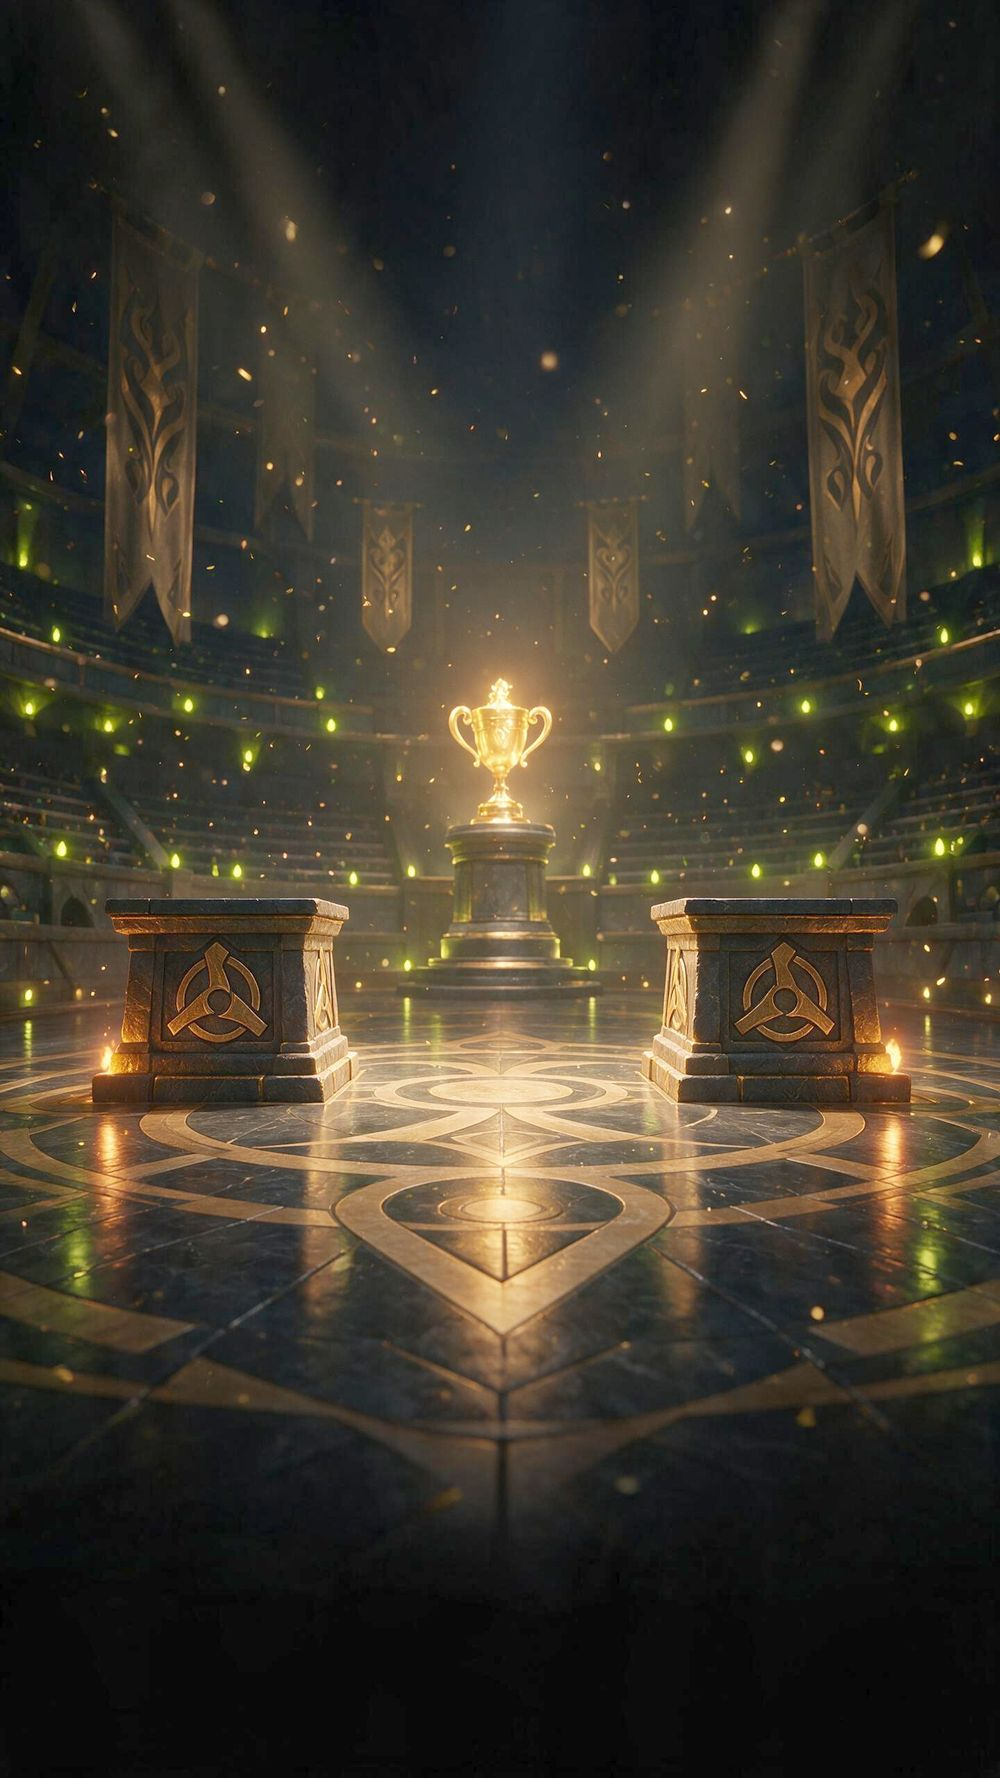
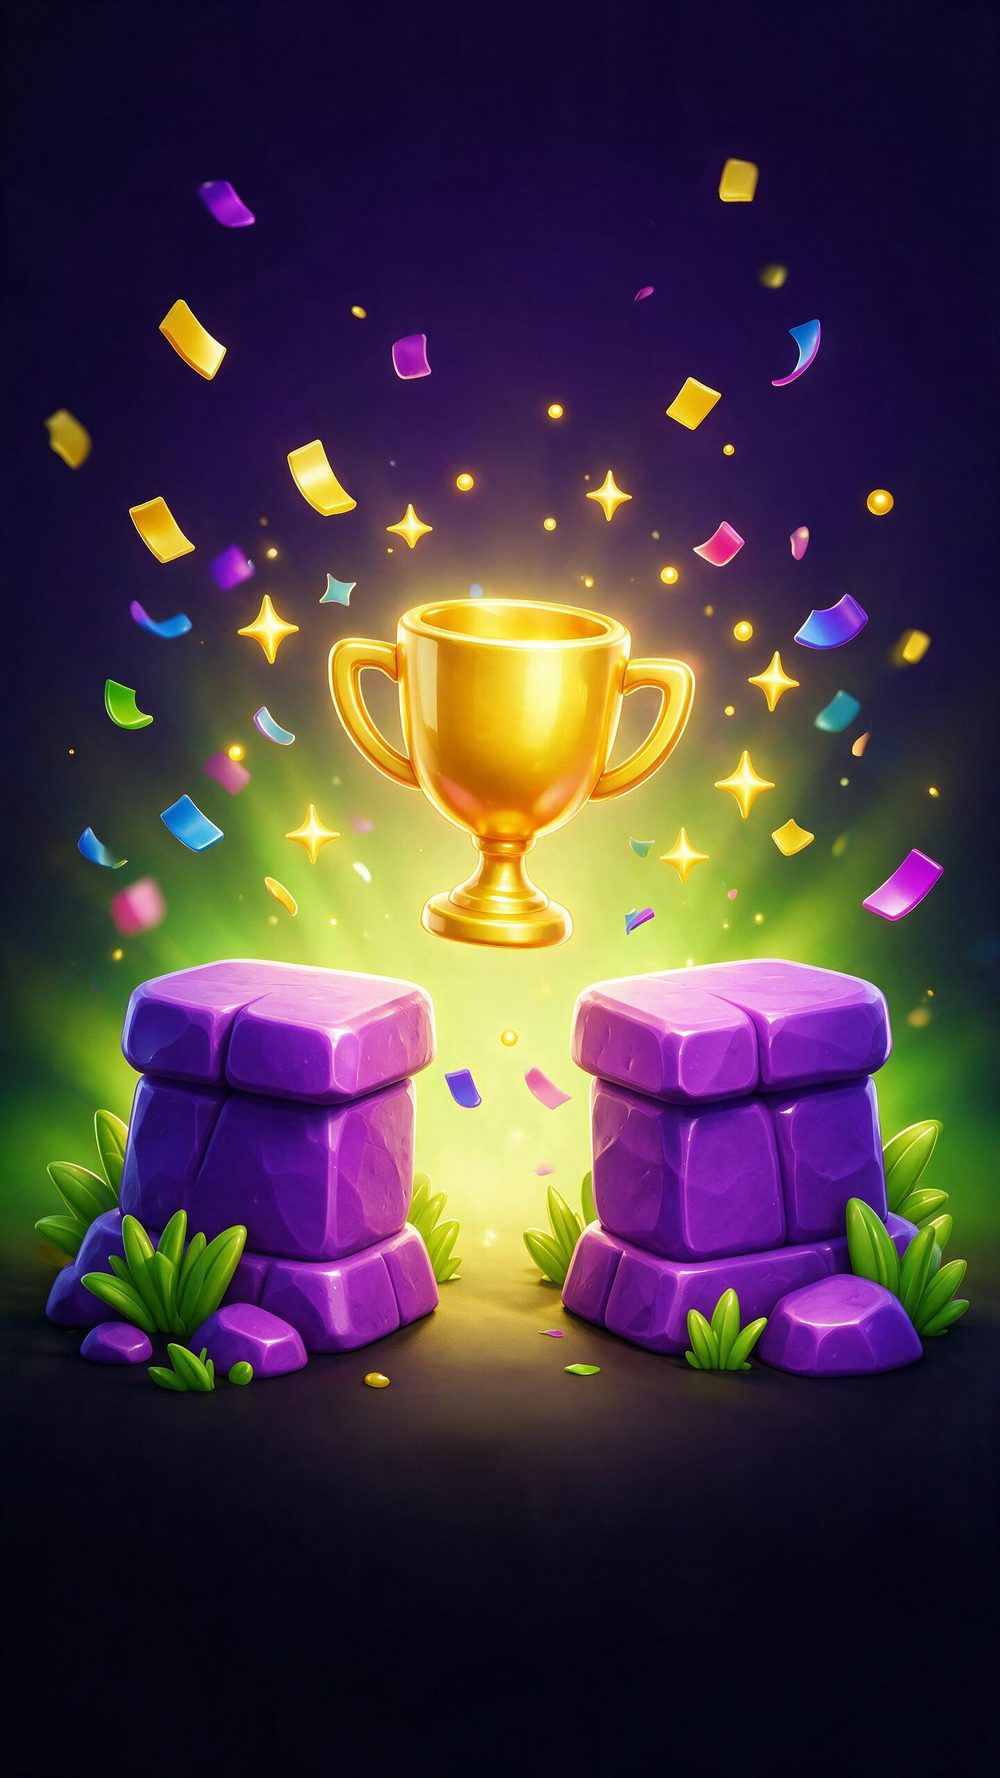
Décors des jeux repris dans la DA de l'app : 3D cartoon glossy
Les décors de la passe précédente étaient en rendu Pixar cinématique
photoréaliste : ils ne collaient pas à la direction artistique de l'app.
Les six sont refaits dans le style des illustrations du hub — formes
rondes et épaisses, rochers violets, herbe verte, étoiles dorées, fond
violet sombre avec halo de couleur.

Les illustrations existantes servent de références de style à la
génération, ce qui garantit que les décors et les illustrations
appartiennent au même monde.

Voile légèrement remonté, ces décors étant plus lumineux et saturés.

Claude-Session: https://claude.ai/code/session_01Yc3XUDTvi28KwCZYaeYVDC

diff --git a/src/components/games/ArcadeUI.tsx b/src/components/games/ArcadeUI.tsx
@@ -170,7 +170,7 @@ export function GameDecor({ src }: { src: string }) {
         className="absolute inset-0"
         style={{
           background:
-            "linear-gradient(180deg, rgba(12,12,11,.74) 0%, rgba(12,12,11,.54) 24%, rgba(12,12,11,.60) 58%, rgba(12,12,11,.90) 100%)",
+            "linear-gradient(180deg, rgba(12,12,11,.80) 0%, rgba(12,12,11,.64) 24%, rgba(12,12,11,.70) 58%, rgba(12,12,11,.92) 100%)",
         }}
       />
     </div>

diff --git a/docs/CHEMIN-ASSETS.md b/docs/CHEMIN-ASSETS.md
@@ -102,9 +102,22 @@ et cinématique que Le Chemin.
 | `public/img/jeux/decors/chronologie.jpg` | horloge cosmique et sablier, nébuleuse violette |
 | `public/img/jeux/decors/defi.jpg` | arène de duel, deux podiums et trophée |
 
-Format : 1000×1778, JPEG progressif, ~200 Ko pièce (1,2 Mo au total). Les
-trois scènes les plus sombres ont été éclaircies (gamma 0,68) pour rester
-lisibles sous le voile.
+Format : 1000×1778, JPEG progressif, ~160 Ko pièce (0,95 Mo au total).
+
+**Style : celui des illustrations du hub, pas celui du Chemin.** Une
+première version en rendu Pixar cinématique / photoréaliste a été refusée
+par Jack : elle ne collait pas à la DA de l'app. Les décors définitifs sont
+en **3D cartoon glossy** — formes rondes et épaisses, rochers violets,
+touffes d'herbe vertes, étoiles dorées à quatre branches, fond violet
+sombre avec un halo de couleur — exactement le rendu des illustrations
+`public/img/jeux/*.png`.
+
+Méthode : les illustrations du hub ont été **téléversées dans Magnific**
+et passées en `references` (type `image`) à `images_generate`. C'est ce qui
+verrouille le style ; un prompt seul ne suffit pas et repart en
+photoréalisme. Références utilisées : l'illustration Mémoriser (livre +
+ampoule + cœur) et l'illustration Chronologie (chronomètre + parchemin).
+À refaire pour tout nouveau décor de jeu.
 
 Mise en œuvre :
 
